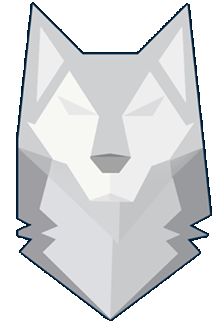
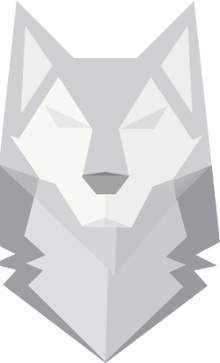
adicionando background na section descricao e trocando imagem do lobo

diff --git a/style.css b/style.css
@@ -46,12 +46,6 @@ Text Domain: meu-tema
 	padding: 0;
 }
 
-/* funcoes */
-
-.aparecer{
-	opacity: 1;
-	transition: 1.0s;
-}
 
 /* menu */
 
@@ -106,45 +100,51 @@ Text Domain: meu-tema
 
 /* descricao */
 
+.background{
+	background: no-repeat center center;
+	background-size: cover;
+}
+
 .descricao{
 	height: 88vh;
-	max-width: 960px;
 	overflow: auto;
 	margin: 0 auto;
-	/*opacity: 0;
-	transition: 1.0s;*/
 }
 
 .descricao-container{
 	padding-top: 80px;
 }
 
-.descricao-texto{
-	color: #360087;
-	max-width: 460px;
-	float: left;
-	padding-left: 20px;
-	padding-top: 50px;
-	font-family: 'Roboto Condensed', sans-serif;
+.descricao-texto, .descricao img{
+	opacity: 0;
+	transition: 1.0s;
 }
 
-.descricao-texto h2{
+.descricao-texto{
+	color: white;
+	font-family: 'Roboto Condensed', sans-serif;
+	font-weight: 600;
+
+	float: right;
+	padding-right: 80px;
+	padding-top: 50px;
+}
+
+.descricao-texto h1{
 	padding-bottom: 20px;
 	text-align: center;
 }
 
 .descricao-texto p{
 	max-width: 460px;
-	line-height: 30px;
-	font-size: 1.25em;
+	line-height: 32px;
+	font-size: 1.3em;
 	text-align: center;
 }
 
 .descricao img{
-	max-width: 460px;
-	float: right;
-	padding-right: 20px;
-
+	float: left;
+	padding-left: 80px;
 }
 
 /* quem somos */
@@ -165,7 +165,6 @@ Text Domain: meu-tema
 	position:relative;
 	height: 400px;
 	z-index: 1;
-	
 }
 
 
@@ -179,6 +178,7 @@ Text Domain: meu-tema
 	position:relative;
 	height: 400px;
 	z-index: 1;
+
 }
 
 /* proposito */
@@ -214,7 +214,7 @@ Text Domain: meu-tema
 	max-width: 960px;
 	height: 128px;
 	margin: 0 auto;
-	padding: 40px 0;
+	padding: 20px 0;
 }
 
 .footer-esquerda{
@@ -258,5 +258,12 @@ Text Domain: meu-tema
 
 	float: right;
 	display: inline-block;
+}
+
+/* funcoes do js*/
+
+.aparecer{
+	opacity: 1 !important;
+	transition: 1.0s;
 }
 

diff --git a/js/funcionalidades.js b/js/funcionalidades.js
@@ -6,11 +6,13 @@ $(document).ready( function()
 		var windowTop = $(this).scrollTop();
 		if(windowTop > $('.descricao').offset().top - 200)
 		{
-			$('.descricao').addClass('aparecer');
+			$('.descricao-texto').addClass('aparecer');
+			$('.descricao img').addClass('aparecer');
 		}
 		else
 		{
-			$('.descricao').removeClass('aparecer');
+			$('.descricao-texto').removeClass('aparecer');
+			$('.descricao img').removeClass('aparecer');
 		}
 
 		

diff --git a/page-home.php b/page-home.php
@@ -13,16 +13,18 @@ get_header();
 
 <div class="teste">
 
+<div class="background"	style="background-image:url('<?= get_template_directory_uri(); ?>/img/html_background.jpeg');">
+	<section class="descricao">
 
-<section class="descricao">
-	<div class="descricao-container">
-		<div class="descricao-texto">
-			<h2>IN Junior soluções em TI</h2>
-			<p>Desenvolvimento de Sites, Sistemas Web e Aplicativos para pequenas e médias empresas. Nunca foi tão fácil encontrar soluções em TI para alavancar o seu negócio.</p>
+		<div class="descricao-container">
+			<div class="descricao-texto">
+				<h1>IN Junior soluções em TI</h1>
+				<p>Desenvolvimento de Sites, Sistemas Web e Aplicativos para pequenas e médias empresas. Nunca foi tão fácil encontrar soluções em TI para alavancar o seu negócio.</p>
+			</div>
+			<img src="<?= get_template_directory_uri(); ?>/img/lobo_foto.png" alt="lobo da In Junior">
 		</div>
-		<img src="<?= get_template_directory_uri(); ?>/img/lobo_foto.png" alt="lobo da In Junior">
-	</div>
-</section>
+	</section>
+</div>
 
 <section class="quem-somos">
   <h2>Quem Somos</h2>
